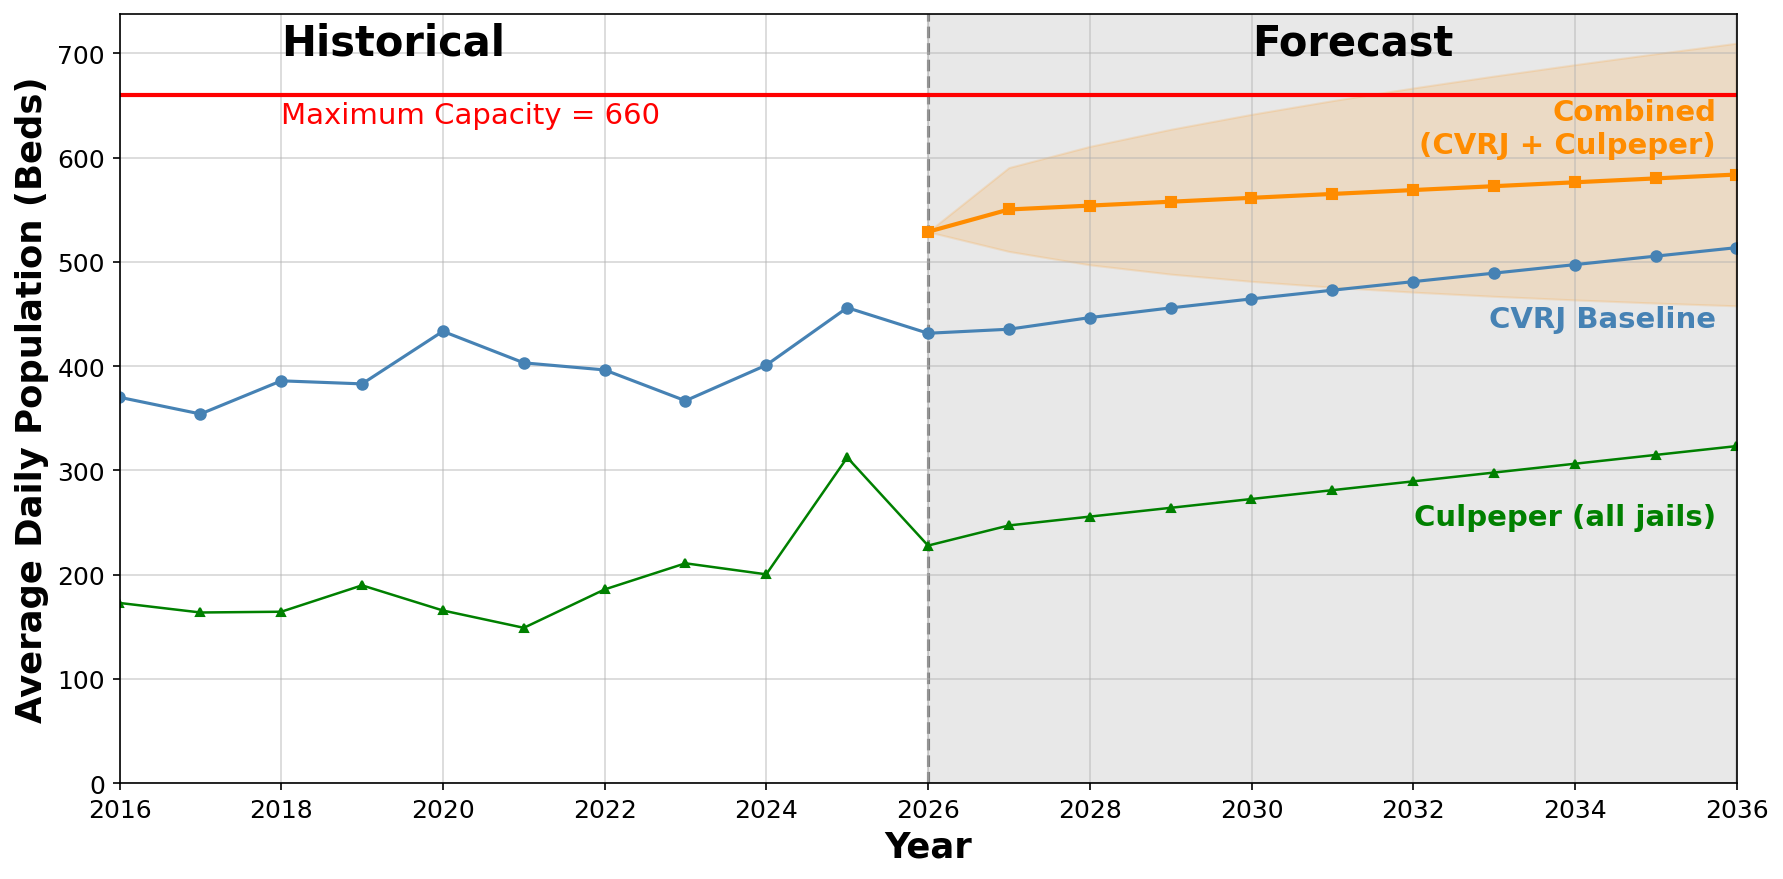
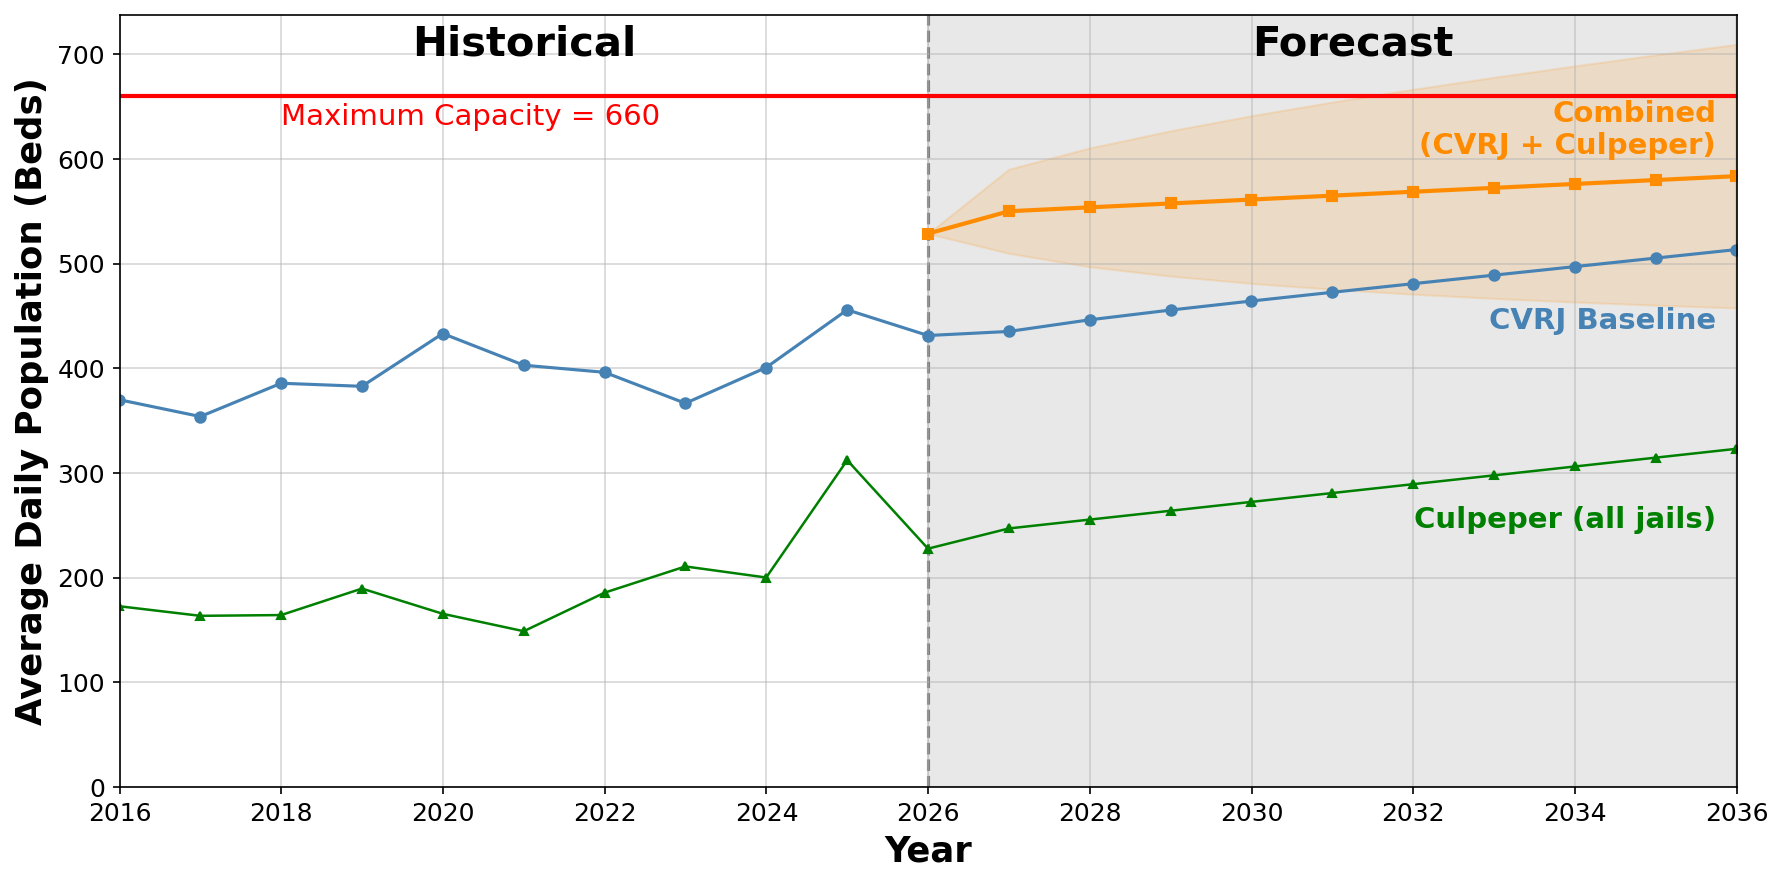
centering historical label

diff --git a/scripts/07_capacity_forecast_visualization.py b/scripts/07_capacity_forecast_visualization.py
@@ -172,7 +172,7 @@ def plot_capacity(ax, annual_cvrj_adp, years_future, cvrj_forecast_vals, combine
         y_arrow = MAX_CAPACITY + 50  # clearly below the capacity line
 
         offset_forecast = pd.DateOffset(years=4)
-        offset_historical = pd.DateOffset(years=8)
+        offset_historical = pd.DateOffset(years=5)
 
 
         # Forecast arrow (pointing right from dashed line)
@@ -190,7 +190,7 @@ def plot_capacity(ax, annual_cvrj_adp, years_future, cvrj_forecast_vals, combine
                     xy=(x_forecast, y_arrow),
                     xytext=(x_forecast - offset_historical, y_arrow),
                     fontsize=20,
-                    ha='left', va='center',
+                    ha='center', va='center',
                     color='black',
                     fontweight='bold')
                     #arrowprops=dict(arrowstyle='<-', color='gray', lw=1.5))
